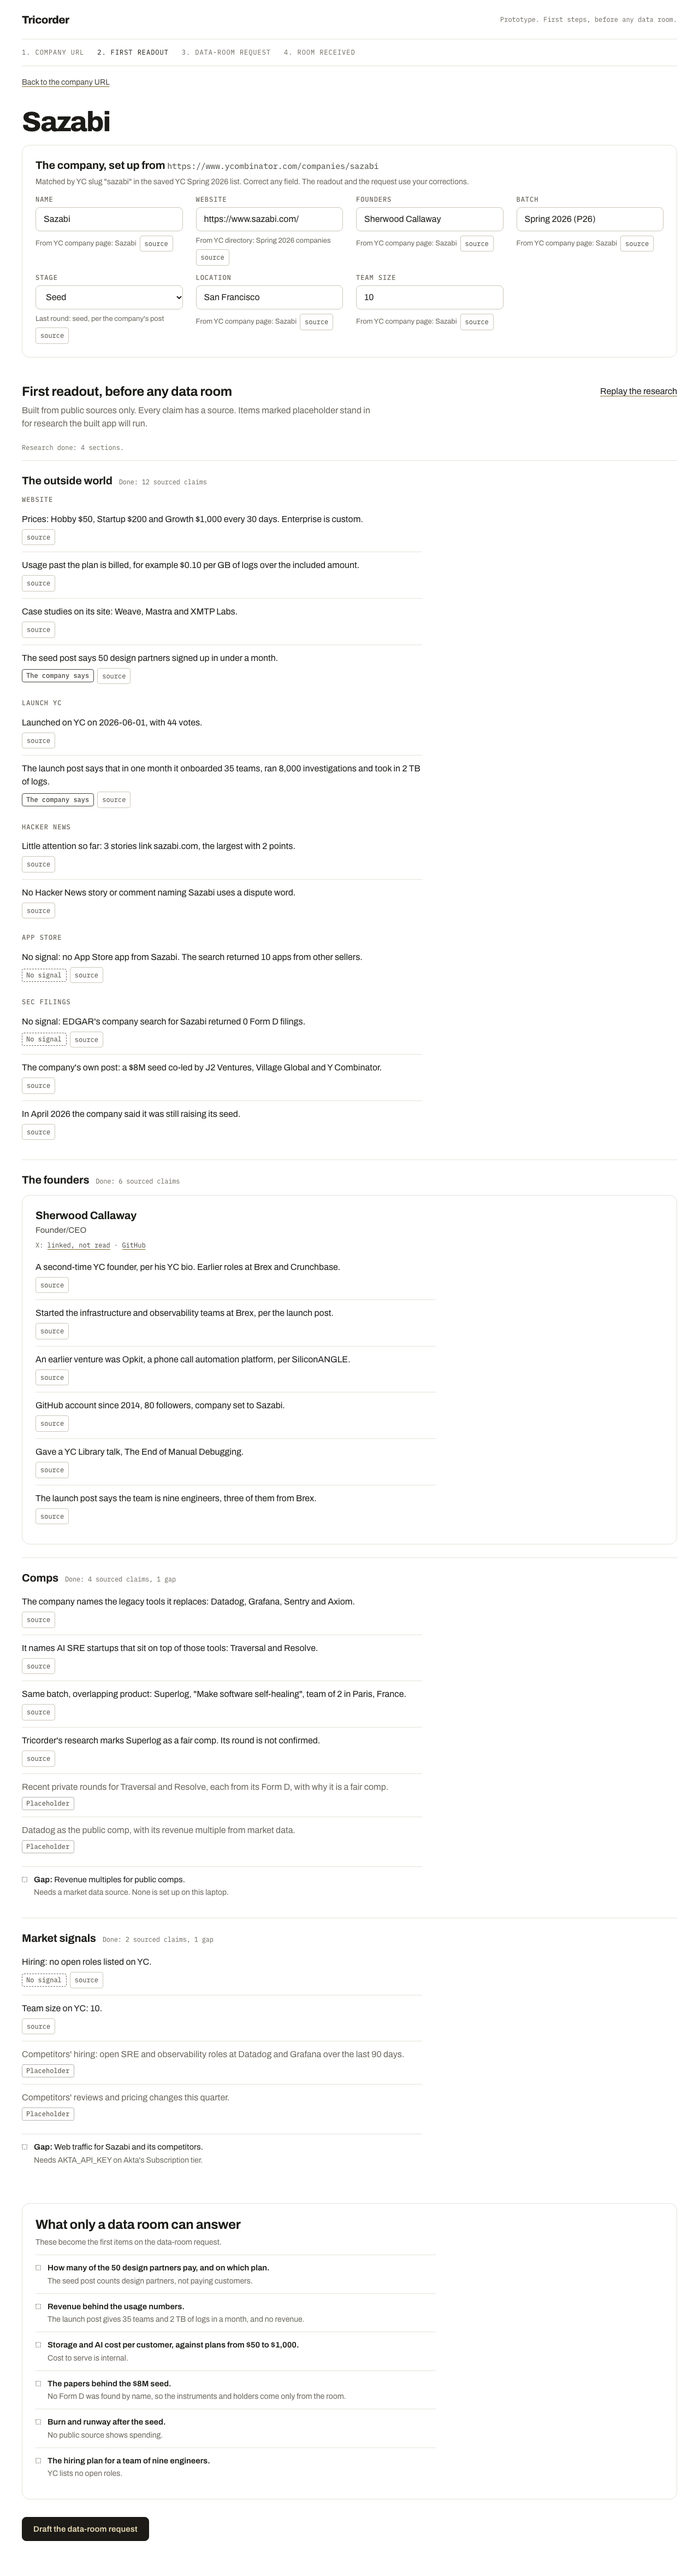
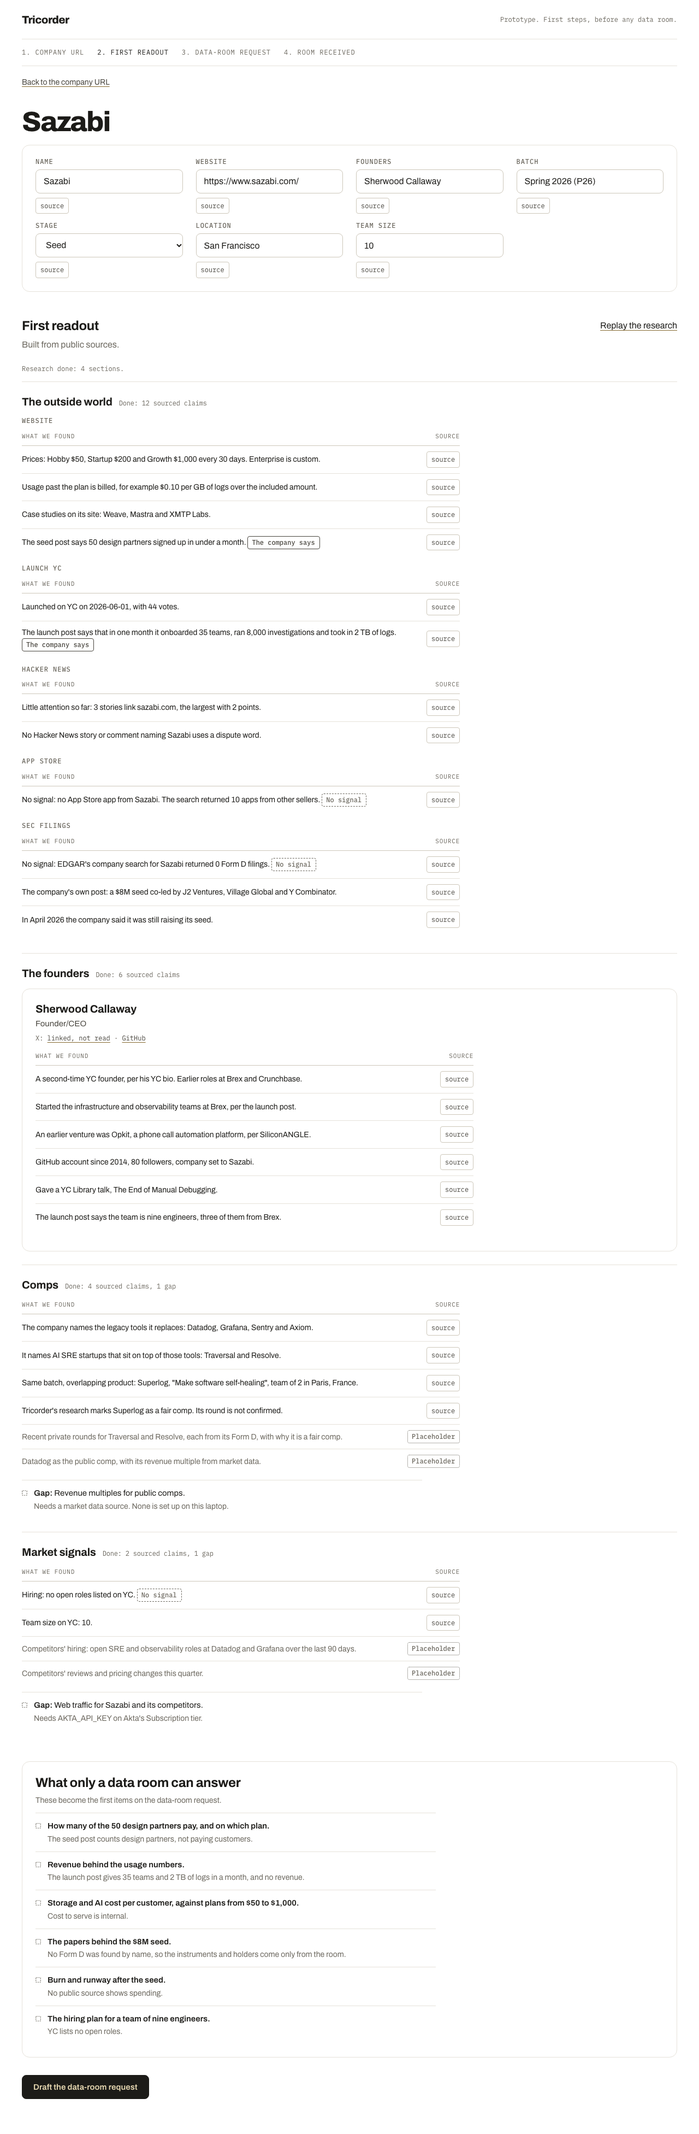
Prototype readout: claims as tables, source in the second column

diff --git a/docs/features/20261024.02_first_steps_ui/prototype/app.js b/docs/features/20261024.02_first_steps_ui/prototype/app.js
@@ -150,10 +150,12 @@
     const b = e.target.closest(".srcchip");
     if (!b) return;
     const open = b.getAttribute("aria-expanded") === "true";
-    const next = b.nextElementSibling;
+    const row = b.closest("tr");
+    const next = row ? row.nextElementSibling : b.nextElementSibling;
     if (open && next && next.classList.contains("panel")) { next.remove(); b.setAttribute("aria-expanded", "false"); return; }
     const c = b.dataset.claim ? JSON.parse(b.dataset.claim) : null;
-    b.insertAdjacentHTML("afterend", sourcePanel(b.dataset.src, c));
+    if (row) row.insertAdjacentHTML("afterend", `<tr class="panel"><td colspan="2">${sourcePanel(b.dataset.src, c)}</td></tr>`);
+    else b.insertAdjacentHTML("afterend", sourcePanel(b.dataset.src, c));
     b.setAttribute("aria-expanded", "true");
   });
 
@@ -166,9 +168,12 @@
   };
   function claimLi(c) {
     if (c.placeholder) {
-      return `<li class="claim ph wait"><span class="claim-text">${esc(c.text)}</span><span class="tc-mark ph" title="Prototype filler. Benjamin's research builds this part.">Placeholder</span></li>`;
+      return `<tr class="claim ph wait"><td class="claim-text">${esc(c.text)}</td><td class="claim-src"><span class="tc-mark ph" title="Prototype filler. Benjamin's research builds this part.">Placeholder</span></td></tr>`;
     }
-    return `<li class="claim wait"><span class="claim-text">${esc(c.text)}</span>${KIND[c.kind] || ""}${chip(c.source, c)}</li>`;
+    return `<tr class="claim wait"><td class="claim-text">${esc(c.text)} ${KIND[c.kind] || ""}</td><td class="claim-src">${chip(c.source, c)}</td></tr>`;
+  }
+  function claimsTable(claims) {
+    return `<table class="tc-table claims"><thead><tr><th scope="col">What we found</th><th scope="col">Source</th></tr></thead><tbody>${claims.map(claimLi).join("")}</tbody></table>`;
   }
   function gapsList(gaps) {
     if (!gaps || !gaps.length) return "";
@@ -209,13 +214,13 @@
     let inner = "";
     if (s.parts) {
       inner = s.parts.map((p) => `<div class="part wait"><h3>${esc(p.label)}</h3>${p.claims.length
-        ? `<ul class="claims">${p.claims.map(claimLi).join("")}</ul>` : `<p class="note wait">Nothing found.</p>`}</div>`).join("");
+        ? claimsTable(p.claims) : `<p class="note wait">Nothing found.</p>`}</div>`).join("");
     } else if (s.cards) {
       inner = `<div class="cards">${s.cards.map((c) => `<article class="card wait"><h3>${esc(c.name)}</h3><div class="role">${esc(c.role)}</div>
         <div class="links">${c.x ? `X: <a href="${esc(c.x)}" target="_blank" rel="noopener">linked, not read</a>` : ""}${c.github ? ` · <a href="${esc(c.github)}" target="_blank" rel="noopener">GitHub</a>` : ""}</div>
-        <ul class="claims">${c.claims.map(claimLi).join("")}</ul></article>`).join("")}</div>`;
+        ${claimsTable(c.claims)}</article>`).join("")}</div>`;
     } else {
-      inner = `<ul class="claims">${s.claims.map(claimLi).join("")}</ul>`;
+      inner = claimsTable(s.claims);
     }
     return `<section class="section wait" data-sec="${i}" aria-label="${esc(s.title)}">
       <h2>${esc(s.title)} <span class="status" data-status>Waiting</span></h2>${inner}${gapsList(s.gaps)}</section>`;

diff --git a/docs/features/20261024.02_first_steps_ui/prototype/app.css b/docs/features/20261024.02_first_steps_ui/prototype/app.css
@@ -55,10 +55,11 @@ a.btn { text-decoration: none; }
 .section { border-top: var(--tc-hair) solid var(--tc-rule); padding: var(--tc-space-5) 0; }
 .section h2 { margin: 0 0 var(--tc-space-2); font-size: 20px; font-weight: 700; line-height: 1.2; letter-spacing: -0.01em; display: flex; gap: var(--tc-space-3); align-items: baseline; flex-wrap: wrap; }
 .part h3 { margin: var(--tc-space-4) 0 var(--tc-space-1); font: 500 12px/1.2 var(--tc-font-mono); letter-spacing: 0.08em; text-transform: uppercase; color: var(--tc-ink-3); }
-.claims { list-style: none; padding: 0; margin: 0; max-width: 80ch; }
-.claim { display: flex; flex-wrap: wrap; gap: 6px; align-items: center; padding: var(--tc-space-3) 0; border-bottom: var(--tc-hair) solid var(--tc-rule); color: var(--tc-ink-2); }
-.claim:last-child { border-bottom: 0; }
-.claim .claim-text { flex: 1 0 100%; color: var(--tc-ink); }
+.claims { margin: 0 0 var(--tc-space-3); max-width: 100ch; }
+.claims .claim-text { color: var(--tc-ink); }
+.claims .claim-src { width: 1%; white-space: nowrap; text-align: right; }
+.claims th:last-child { text-align: right; }
+.claims tr.panel td { padding-top: 0; }
 .claim.ph .claim-text { color: var(--tc-ink-3); }
 .wait { display: none !important; }
 .arrive { animation: arrive .35s ease-out; }
